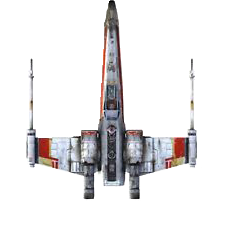
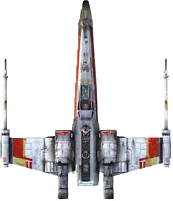
Ahout des nouvelles textures

diff --git a/models/SpaceshipHit.js b/models/SpaceshipHit.js
@@ -1,0 +1,82 @@
+class SpaceshipHit extends Actor {
+
+  constructor(x, y, velocity, width = 0.02, height = 0.066) {
+    super(0.2, 0.2, x, y, SpaceshipHit.z);
+    this.timeElapsedSinceLastFire = +Date.now()
+    this.fireRate = 4;
+    this.verticalSpeed = 0.02;
+    this.horizontalSpeed = 0.02;
+    this.fireSpeed = 500;
+    this.life = 3;
+
+    this.flicker = 0;
+
+    this.currentTexture = SpaceshipHit.texture;
+  }
+
+  shader() {
+    return Spaceship.shader;
+  }
+
+  texture() {
+    return SpaceshipHit.texture;
+  }
+  /**
+  *
+  * @param {Number} elapsed
+  * @param {Object} keys
+  * @param {Game} globals
+  * @return {Boolean} is out of bounds or not
+  */
+  update(elapsed, keys, globals) {
+    if (super.update(elapsed, keys, globals)) {
+      // dead by another object
+      return true;
+    }
+
+    const bounds = this.bounds();
+
+    if (keys[81]) { // left arrow
+      let nextX = this.x - this.horizontalSpeed;
+      if (nextX < bounds.left) {
+        nextX = bounds.left;
+      }
+      this.x = nextX;
+    }
+    if (keys[68]) { // right arrow
+      let nextX = this.x + this.horizontalSpeed;
+      if (nextX > bounds.right) {
+        nextX = bounds.right;
+      }
+      this.x = nextX;
+    }
+    if (keys[90]) { // up arrow
+      let nextY = this.y + this.verticalSpeed;
+      if (nextY > bounds.top) {
+        nextY = bounds.top;
+      }
+      this.y = nextY;
+    }
+    if (keys[83]) { // down arrow
+      let nextY = this.y - this.verticalSpeed;
+      if (nextY < bounds.bottom) {
+        nextY = bounds.bottom;
+      }
+      this.y = nextY;
+    }
+
+    if (keys[32]) { // space
+      this.fire(globals.lasers);
+    }
+
+    return false;
+  }
+
+}
+
+SpaceshipHit.z = -0.6;
+
+SpaceshipHit.init = function (textures) {
+  SpaceshipHit.texture = textures[1];
+  SpaceshipHit.shader = Spaceship.shader;
+}

diff --git a/models/Laser.js b/models/Laser.js
@@ -46,31 +46,31 @@ Laser.z = -0.8;
 
 Laser.init = function (textures) {
 
-    Laser.texture = textures[2];
+    Laser.texture = textures[3];
 
     Laser.shader = Actor.initShaders(`
         // *** le vertex shader ***
         attribute vec3 aVertexPosition; // la position du sommet
         attribute vec2 aTextureCoord; // sa coordonnee de texture
-    
+
         uniform vec2 uPosition; // position du vaisseau
         varying vec2 vTextureCoord; // on souhaite rasteriser la coordonnee
-    
+
         void main(void) {
           // projection de la position
           gl_Position = vec4(aVertexPosition+vec3(uPosition,0.0), 1.0);
-    
+
           // stockage de la coordonnee de texture
           vTextureCoord = aTextureCoord;
         }
     `,`
         // *** le fragment shader ***
         precision highp float; // precision des nombres flottant
-    
+
         varying vec2 vTextureCoord; // recuperation de la coord rasterisee
-    
+
         uniform sampler2D uTexture; // la texture en entree
-    
+
         void main(void) {
           // couleur par defaut du vaisseau... a changer
           //gl_FragColor = vec4(1.0,1.0,0.0,1.0);

diff --git a/models/Spaceship.js b/models/Spaceship.js
@@ -52,6 +52,7 @@ class Spaceship extends Actor {
                 // play flickering
                 if (0 === this.flicker / 10 % 2) {
                     this.currentTexture = Enemy.texture;
+                    //this.currentTexture = SpaceshipHit.texture;
                 } else {
                     this.currentTexture = Spaceship.texture;
                 }
@@ -99,7 +100,7 @@ class Spaceship extends Actor {
 
     cross(other) {
         if (this.flicker > 0) {
-            // while playing touched (flickering) animation, 
+            // while playing touched (flickering) animation,
             // it's impossible to be touched again
             return false;
         }

diff --git a/models/EnemyLaser.js b/models/EnemyLaser.js
@@ -10,7 +10,7 @@ class EnemyLaser extends Actor {
     }
 
     texture() {
-        return Laser.texture;
+        return EnemyLaser.texture;
     }
 
     update(elapsed, keys, globals) {
@@ -37,7 +37,7 @@ EnemyLaser.z = -0.8;
 
 EnemyLaser.init = function (textures) {
 
-    EnemyLaser.texture = Laser.texture;
+    EnemyLaser.texture = textures[4];
 
     EnemyLaser.shader = Laser.shader;
 }

diff --git a/models/Game.js b/models/Game.js
@@ -5,8 +5,10 @@ class Game {
 
         Utils.loadTextures([
             'img/t65.png',
+            'img/t65_hit.png',
             'img/tie.png',
             'img/laser.png',
+            'img/laser_tie.png',
             'img/explosions/explosion1.png',
             'img/explosions/explosion2.png',
             'img/explosions/explosion3.png',

diff --git a/models/Enemy.js b/models/Enemy.js
@@ -108,9 +108,9 @@ Enemy.z = -0.5;
 
 Enemy.init = function (textures) {
 
-    Enemy.texture = textures[1];
+    Enemy.texture = textures[2];
 
-    Enemy.explosionTextures = textures.slice(3, 7);
+    Enemy.explosionTextures = textures.slice(5, 9);
 
     Enemy.shader = Actor.initShaders(`
         // *** le vertex shader ***
